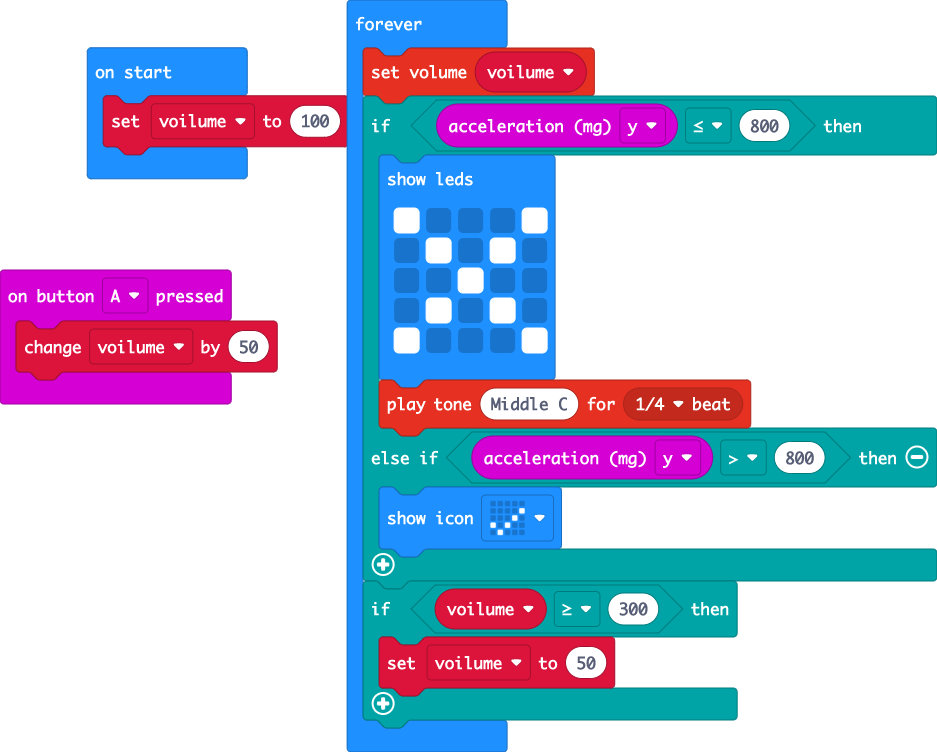
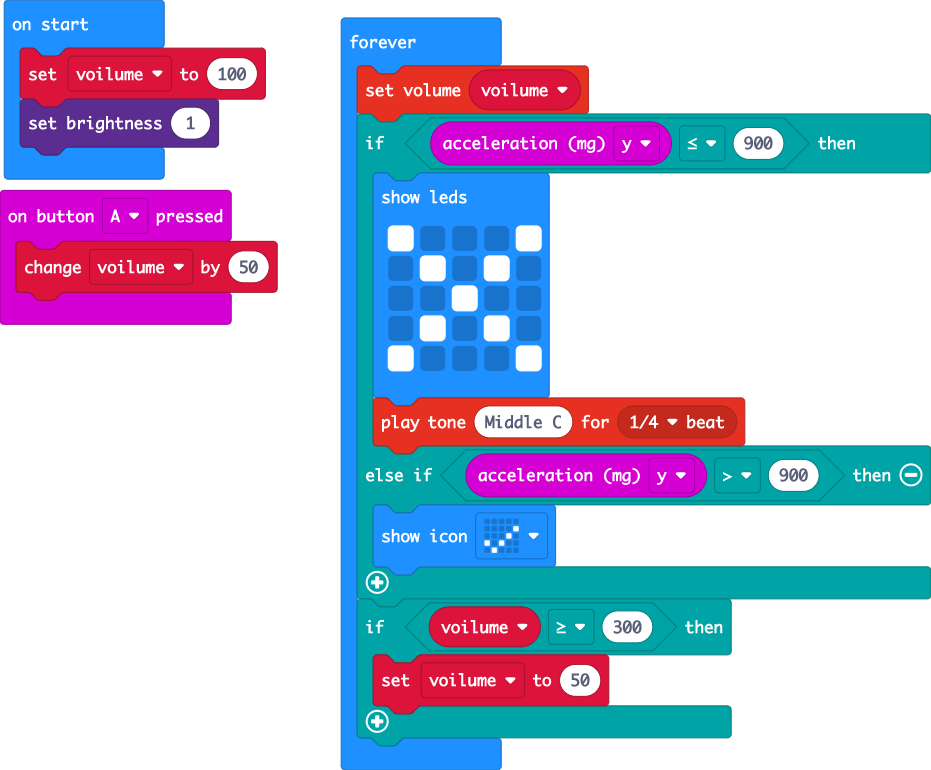
Update pxt.json, main.blocks, main.ts

Changed region(s): [[0.0, 0.0, 1.0, 1.0], [0.5295, 0.9481, 0.5607, 1.0], [0.7787, 0.9176, 0.8099, 0.9481]]

diff --git a/main.ts b/main.ts
@@ -2,9 +2,10 @@ input.onButtonPressed(Button.A, function () {
     voilume += 50
 })
 let voilume = 100
+led.setBrightness(1)
 basic.forever(function () {
     music.setVolume(voilume)
-    if (input.acceleration(Dimension.Y) <= 800) {
+    if (input.acceleration(Dimension.Y) <= 900) {
         basic.showLeds(`
             # . . . #
             . # . # .
@@ -13,7 +14,7 @@ basic.forever(function () {
             # . . . #
             `)
         music.playTone(262, music.beat(BeatFraction.Quarter))
-    } else if (input.acceleration(Dimension.Y) > 800) {
+    } else if (input.acceleration(Dimension.Y) > 900) {
         basic.showIcon(IconNames.Yes)
     }
     if (voilume >= 300) {
